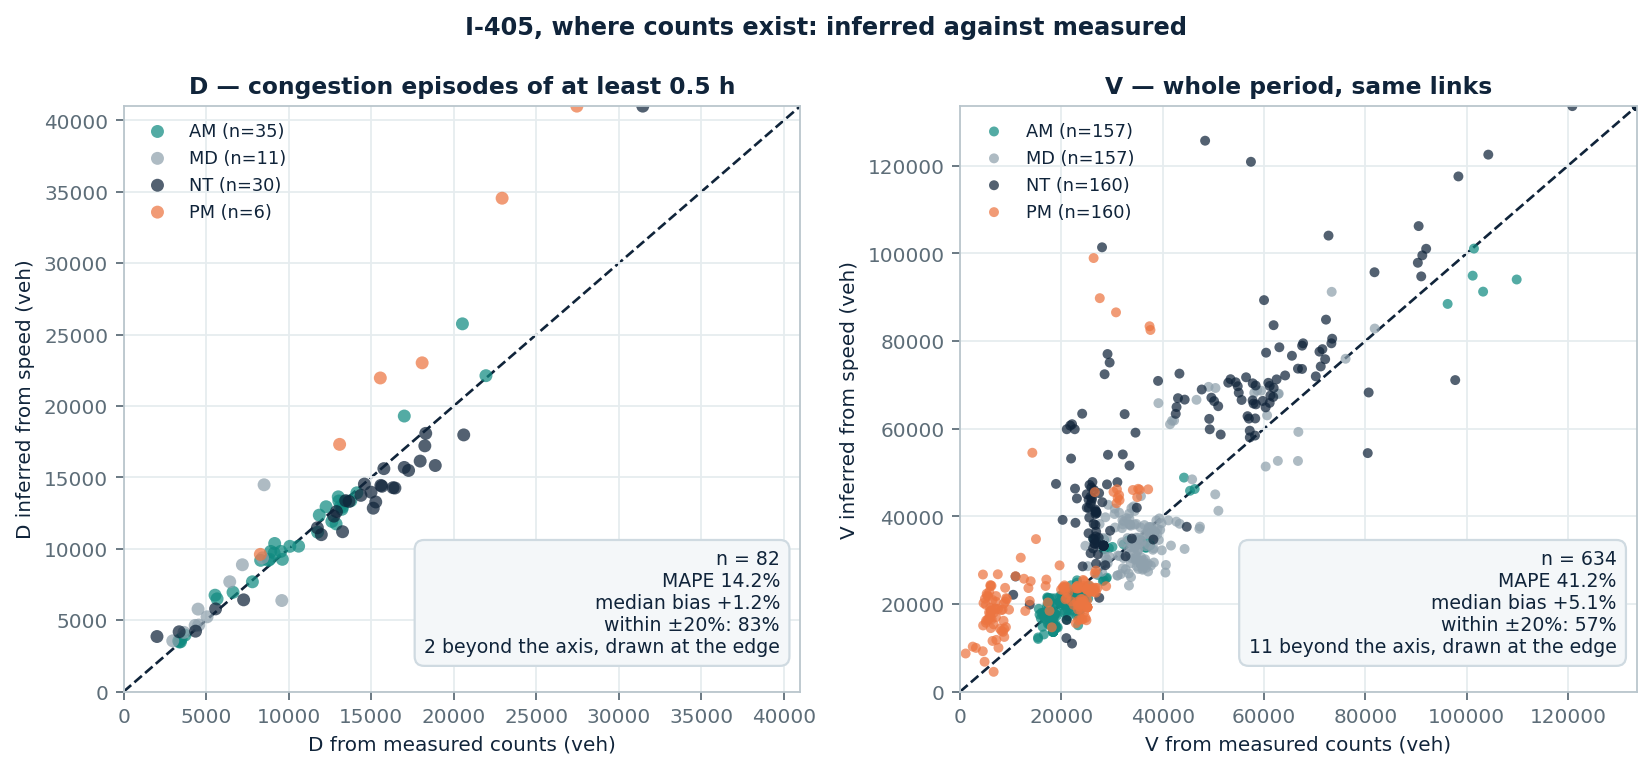
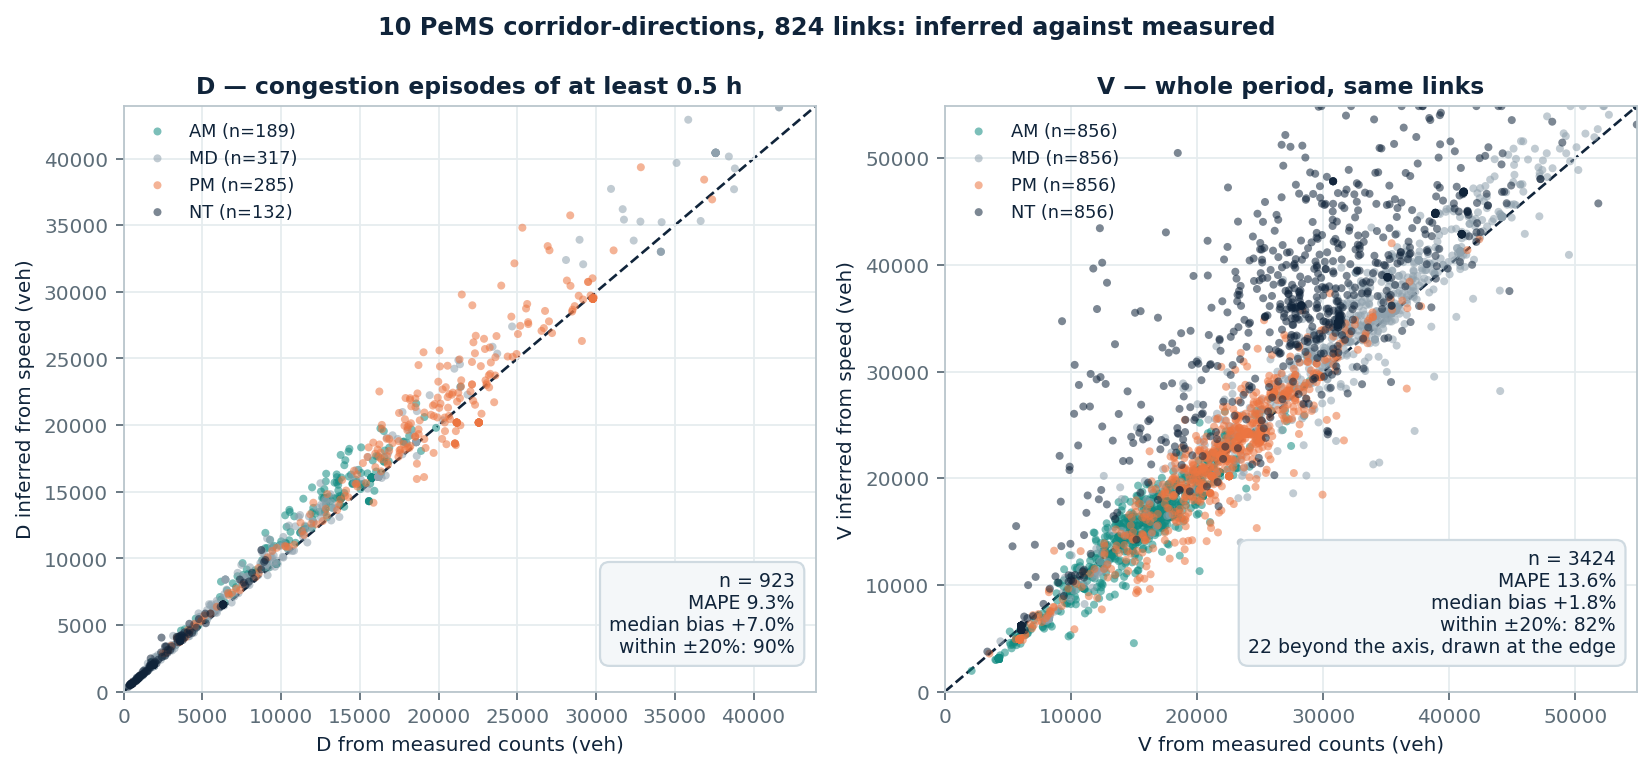
Update the note to the ten-corridor validation
The accuracy section was built on one corridor of 23 links, with 4 PM episodes
and a 45.1% PM figure for D that was a sample artefact. It now rests on both
directions of I-405, I-5, I-10 and I-210 -- 824 links, 285 PM episodes.

D holds between 8.6% and 10.9% across all four periods with 90% of cases within
20%, and V between 7.6% and 9.5% in AM, MD and PM, breaking down only at night
at 29%. The bias split moves with it: D leans consistently high and most of its
error is direction rather than scatter, while V in MD and PM is nearly all
scatter. Night is the exception in both size and sign, which is where the
free-flow problem should surface, since NT is made almost entirely of free-flow
bins.

Both the superseded numbers and the reason the old PM figure was wrong are
stated rather than quietly replaced, since the earlier ones were already sent.

diff --git a/scripts/make_d_vs_counts_figure.py b/scripts/make_d_vs_counts_figure.py
@@ -1,28 +1,13 @@
-"""D inferred from speed against D from counts, on I-405 where both exist.
+"""D and V inferred from speed against the same quantities from counts.
 
-The NVTA corridors have speed but no counts, so nothing there can test whether
-D is trustworthy. I-405 has both on the same links at the same time, which makes
-it the only place the claim can be checked.
+Reads what ``build_pems_pm_corridors.py`` scored: ten PeMS corridor-directions
+(both ways on I-405, I-5, I-10, I-210), average-weekday profiles, D restricted to
+congestion episodes of at least half an hour.
 
-The test isolates the flow estimate. Both columns sum over *the same* bins, so
-what is compared is q(t) from the fundamental diagram against q(t) from the
-detector, not two different episode detections:
-
-    D_speed  = sum of S3(v(t)) * dt   over the congested bins
-    D_counts = sum of q_measured(t) * dt   over the same bins
-
-Congested bins are contiguous runs below the cut-off lasting at least
-``MIN_EPISODE_H``, which is the rule in ``qvdf_selfdemo/config.py``. Shorter
-dips are not congestion, and the diagram misreads them badly -- it takes any low
-speed as high density however few vehicles are actually behind it.
-
-Two sources are pooled to get a usable sample, both weekday-only:
-
-  ``multiweek``  7 links x 12 weekly average-weekday profiles
-  ``daily``      18 links x 5 individual weekdays
-
-V is computed the same way over every bin in the period and drawn beside D. The
-contrast is the point: D sits on the diagonal, V sits above it.
+Also prints the split that says what *kind* of error each one carries. Comparing
+`|bias|` against MAPE separates a consistent lean from scatter, and the two
+behave differently: per bin the error is nearly all scatter, and summing a period
+cancels most of it, so what is left is mostly direction.
 """
 
 from __future__ import annotations
@@ -33,15 +18,11 @@ from pathlib import Path
 import matplotlib
 matplotlib.use("Agg")
 import matplotlib.pyplot as plt
-import numpy as np
 import pandas as pd
 
 ROOT = Path(__file__).resolve().parents[1]
 FIG = ROOT / "docs/figures"
-PERIODS = {"AM": (360, 540), "MD": (540, 900), "PM": (900, 1140), "NT": (1140, 1800)}
-CUTOFF_RATIO = 0.70
-S3_M = 4.0
-MIN_EPISODE_H = 0.5
+PERIODS = ["AM", "MD", "PM", "NT"]
 TEAL, ORANGE, INK, SLATE = "#118b81", "#ec7541", "#10243a", "#8fa1ad"
 PERIOD_COLOUR = {"AM": TEAL, "MD": SLATE, "PM": ORANGE, "NT": INK}
 
@@ -56,159 +37,62 @@ plt.rcParams.update({
 
 def parse_args() -> argparse.Namespace:
     parser = argparse.ArgumentParser()
-    parser.add_argument("--multiweek-file", type=Path,
-                        default=ROOT / "outputs/i405_multiweek_average_holdout/weekly_average_weekday_profiles_5min.csv")
-    parser.add_argument("--daily-file", type=Path,
-                        default=ROOT / "data/jinxi_i405_week_2025-06-16_to_22/raw_observed_fdqbench.csv")
-    parser.add_argument("--output-dir", type=Path, default=ROOT / "outputs/d_vs_counts_i405")
+    parser.add_argument("--scored-file", type=Path,
+                        default=ROOT / "outputs/pems_pm_corridors/d_v_vs_counts_by_link.csv")
     return parser.parse_args()
-
-
-def load_sources(multiweek_file: Path, daily_file: Path) -> pd.DataFrame:
-    """Both datasets in one tidy shape: unit, link, minute, speed, flow."""
-    frames = []
-
-    weekly = pd.read_csv(multiweek_file)
-    frames.append(pd.DataFrame({
-        "source": "multiweek", "link_id": weekly["link_id"],
-        "unit": "wk " + weekly["week_start"].astype(str),
-        "minute": weekly["minute_of_day"].astype(int),
-        "speed": weekly["average_speed_mph"], "flow": weekly["average_flow_veh_h"],
-    }))
-
-    daily = pd.read_csv(daily_file)
-    daily = daily[~daily["is_imputed"].astype(bool)]
-    stamp = pd.to_datetime(daily["timestamp_la"])
-    daily = daily.assign(minute=stamp.dt.hour * 60 + stamp.dt.minute,
-                         day=stamp.dt.date.astype(str), weekday=stamp.dt.weekday)
-    daily = daily[daily["weekday"] < 5]
-    frames.append(pd.DataFrame({
-        "source": "daily", "link_id": daily["link_id"], "unit": daily["day"],
-        "minute": daily["minute"].astype(int),
-        "speed": daily["speed_mph"], "flow": daily["flow_vehph"],
-    }))
-
-    return pd.concat(frames, ignore_index=True).dropna(subset=["speed", "flow"])
-
-
-def sustained_below(below: np.ndarray, min_bins: int) -> np.ndarray:
-    """Contiguous runs below the cut-off that last at least ``min_bins``."""
-    keep = np.zeros_like(below, dtype=bool)
-    start = None
-    for i, flag in enumerate(np.append(below, False)):
-        if flag and start is None:
-            start = i
-        elif not flag and start is not None:
-            if i - start >= min_bins:
-                keep[start:i] = True
-            start = None
-    return keep
-
-
-def s3_flow(speed: np.ndarray, free_speed: float, speed_at_capacity: float,
-            capacity: float) -> np.ndarray:
-    """k(v) = k_c[(v_f/v)^(m/2) - 1]^(1/m), then q = k*v. Single-valued in v."""
-    k_c = capacity / speed_at_capacity
-    v = np.clip(speed, 1e-6, free_speed - 1e-6)
-    return np.minimum(k_c * np.maximum((free_speed / v) ** (S3_M / 2.0) - 1.0, 0.0) ** (1.0 / S3_M) * v,
-                      capacity)
-
-
-def period_of(minute: pd.Series) -> pd.Series:
-    out = pd.Series(pd.NA, index=minute.index, dtype="object")
-    for name, (start, end) in PERIODS.items():
-        # NT wraps past midnight, so it is two spans rather than one.
-        inside = (((minute >= start) & (minute < end)) if end <= 1440
-                  else ((minute >= start) | (minute < end - 1440)))
-        out[inside] = name
-    return out
 
 
 def main() -> None:
     args = parse_args()
-    args.output_dir.mkdir(parents=True, exist_ok=True)
-    data = load_sources(args.multiweek_file, args.daily_file)
-    data["period"] = period_of(data["minute"])
-    data = data.dropna(subset=["period"])
-    step_h = float(np.median(np.diff(np.sort(data["minute"].unique())))) / 60.0
-    min_bins = max(1, int(round(MIN_EPISODE_H / step_h)))
-
-    rows = []
-    # One fundamental diagram per link and source: the two sources scale flow
-    # differently (one averages across days, the other does not).
-    for (source, link_id), link in data.groupby(["source", "link_id"]):
-        capacity = float(link["flow"].quantile(0.995))
-        speed_at_capacity = float(link.loc[link["flow"].idxmax(), "speed"])
-        free_speed = float(link["speed"].quantile(0.95))
-        if not free_speed > speed_at_capacity > 0 or capacity <= 0:
-            continue
-        cutoff = CUTOFF_RATIO * free_speed
-        link = link.assign(q_speed=s3_flow(link["speed"].to_numpy(float), free_speed,
-                                           speed_at_capacity, capacity))
-        for (unit, period), g in link.groupby(["unit", "period"]):
-            g = g.sort_values("minute")
-            if len(g) < 8:
-                continue
-            below = sustained_below((g["speed"] < cutoff).to_numpy(), min_bins)
-            rows.append({
-                "source": source, "link_id": link_id, "unit": unit, "period": period,
-                "bins": int(len(g)), "bins_below_cutoff": int(below.sum()),
-                "cutoff_mph": cutoff, "capacity_vph": capacity,
-                "D_counts": float((g["flow"].to_numpy()[below] * step_h).sum()),
-                "D_speed": float((g["q_speed"].to_numpy()[below] * step_h).sum()),
-                "V_counts": float((g["flow"] * step_h).sum()),
-                "V_speed": float((g["q_speed"] * step_h).sum()),
-            })
-
-    frame = pd.DataFrame(rows)
-    frame = frame[frame["V_counts"] > 0].copy()
-    frame["V_err"] = (frame["V_speed"] - frame["V_counts"]) / frame["V_counts"] * 100
-    congested = frame[frame["bins_below_cutoff"] > 0].copy()
-    congested["D_err"] = (congested["D_speed"] - congested["D_counts"]) / congested["D_counts"] * 100
-    frame.to_csv(args.output_dir / "d_vs_counts_i405.csv", index=False)
+    frame = pd.read_csv(args.scored_file)
+    congested = frame[frame["bins_below_cutoff"] > 0].dropna(subset=["D_err"])
 
     fig, (left, right) = plt.subplots(1, 2, figsize=(10.4, 4.8))
-    for ax, data_, xcol, ycol, err, title, size in [
-        (left, congested, "D_counts", "D_speed", "D_err",
-         f"D — congestion episodes of at least {MIN_EPISODE_H:g} h", 34),
-        (right, frame, "V_counts", "V_speed", "V_err", "V — whole period, same links", 20),
+    for ax, data, xcol, ycol, err, title in [
+        (left, congested, "D_counts", "D_speed", "D_err", "D — congestion episodes of at least 0.5 h"),
+        (right, frame, "V_counts", "V_speed", "V_err", "V — whole period, same links"),
     ]:
-        # Scale to the bulk, not to the single worst point, and say how many
-        # fall outside rather than quietly dropping them.
-        top = max(data_[xcol].quantile(.98), data_[ycol].quantile(.98)) * 1.10
-        outside = ((data_[xcol] > top) | (data_[ycol] > top)).sum()
+        top = max(data[xcol].quantile(.98), data[ycol].quantile(.98)) * 1.10
+        outside = int(((data[xcol] > top) | (data[ycol] > top)).sum())
         ax.plot([0, top], [0, top], color=INK, lw=1.2, ls="--", zorder=1)
-        for period, g in data_.groupby("period"):
-            ax.scatter(g[xcol].clip(upper=top), g[ycol].clip(upper=top), s=size,
-                       color=PERIOD_COLOUR.get(period, SLATE),
-                       alpha=.72, edgecolors="none", zorder=2, label=f"{period} (n={len(g)})")
+        for period in PERIODS:
+            g = data[data["period"] == period]
+            if g.empty:
+                continue
+            ax.scatter(g[xcol].clip(upper=top), g[ycol].clip(upper=top), s=13,
+                       color=PERIOD_COLOUR[period], alpha=.55, edgecolors="none", zorder=2,
+                       label=f"{period} (n={len(g)})")
         ax.set_xlim(0, top); ax.set_ylim(0, top)
         ax.set_xlabel(f"{xcol[0]} from measured counts (veh)")
         ax.set_ylabel(f"{xcol[0]} inferred from speed (veh)")
         ax.set_title(title)
         ax.legend(frameon=False, fontsize=8, loc="upper left")
         ax.text(.97, .06,
-                f"n = {len(data_)}\nMAPE {data_[err].abs().mean():.1f}%\n"
-                f"median bias {data_[err].median():+.1f}%\n"
-                f"within ±20%: {(data_[err].abs() <= 20).mean()*100:.0f}%"
+                f"n = {len(data)}\nMAPE {data[err].abs().mean():.1f}%\n"
+                f"median bias {data[err].median():+.1f}%\n"
+                f"within ±20%: {(data[err].abs() <= 20).mean()*100:.0f}%"
                 + (f"\n{outside} beyond the axis, drawn at the edge" if outside else ""),
                 transform=ax.transAxes, ha="right", va="bottom", fontsize=8.5,
                 bbox=dict(boxstyle="round,pad=0.5", fc="#f4f7f9", ec="#cfdae1"))
 
-    fig.suptitle("I-405, where counts exist: inferred against measured", fontweight="bold", y=0.99)
+    fig.suptitle(f"{frame['corridor'].nunique()} PeMS corridor-directions, "
+                 f"{frame['link_id'].nunique()} links: inferred against measured",
+                 fontweight="bold", y=0.99)
     fig.tight_layout()
     fig.savefig(FIG / "d_vs_counts.png", bbox_inches="tight")
     plt.close(fig)
 
-    print(f"{frame['link_id'].nunique()} links, {len(frame)} link-period observations "
-          f"({len(congested)} with a congestion episode of at least {MIN_EPISODE_H:g} h)")
-    print(frame.groupby("source").agg(units=("unit", "nunique"), links=("link_id", "nunique"),
-                                      rows=("unit", "size")).to_string())
-    print()
-    for label, d, err in [("D (congested)", congested, "D_err"), ("V (whole period)", frame, "V_err")]:
-        print(f"{label:<18} n={len(d):>4}  MAPE {d[err].abs().mean():>6.1f}%  "
-              f"median bias {d[err].median():>+6.1f}%  within +-20%: {(d[err].abs() <= 20).mean()*100:>5.1f}%")
-    print(f"\nWrote {args.output_dir} and docs/figures/d_vs_counts.png")
+    print(f"{frame['corridor'].nunique()} corridor-directions, {frame['link_id'].nunique()} links\n")
+    print(f"{'':<16} {'n':>5} {'MAPE':>8} {'bias':>8} {'|bias|/MAPE':>13}")
+    for label, data, err in [("D", congested, "D_err"), ("V", frame, "V_err")]:
+        for period in PERIODS:
+            g = data[data["period"] == period][err].dropna()
+            if g.empty:
+                continue
+            mape = g.abs().mean()
+            print(f"{label + ' ' + period:<16} {len(g):>5} {mape:>7.1f}% {g.median():>+7.1f}% "
+                  f"{abs(g.median())/mape:>13.2f}")
+    print(f"\nWrote {FIG / 'd_vs_counts.png'}")
 
 
 if __name__ == "__main__":

diff --git a/docs/NVTA_D_AND_V.md b/docs/NVTA_D_AND_V.md
@@ -78,91 +78,58 @@ of how many others are on the road, so one speed is consistent with a wide band
 of flows: 65 mph at 03:00 and 65 mph at 06:30 are completely different traffic.
 The diagram returns one answer anyway.
 
-Scored against measured counts on I-405 — 7 links × 12 weekly average-weekday
-profiles, S3 with the standard exponent `m = 4`. **D and V are delivered per
-period, so those are the rows that describe the deliverable**; the per-bin rows
-below them are diagnostic, and show where the error lives.
+Scored against measured counts on **ten PeMS corridor-directions** — both ways on
+I-405, I-5, I-10 and I-210, 824 links, average-weekday profiles over roughly nine
+months of weekdays, `is_observed` only so nothing imputed enters a comparison
+against measurement. S3 with the standard exponent `m = 4`.
 
 | Period | **D** n | **D** MAPE | **D** bias | **V** n | **V** MAPE | **V** bias |
 |---|---:|---:|---:|---:|---:|---:|
-| **AM** | 26 | **6.1%** | +0.4% | 82 | **16.1%** | −14.7% |
-| **MD** | 17 | **14.5%** | +9.2% | 82 | **16.8%** | −11.9% |
-| **PM** | 4 | 45.1% | +42.9% | 82 | **18.6%** | −12.7% |
-| **NT** | 1 | — | — | 82 | **40.9%** | +36.1% |
-
-One observation is one link-week-period. Seven links across twelve weeks gives 84
-link-weeks, less two where the maximum-flow bin sat above the 95th-percentile
-speed and the diagram could not be fitted, so **V is scored on all 82 in every
-period**. **D is scored only on those containing a congestion episode of at least
-half an hour** — 26 of 82 in AM, 4 in PM — which is why its sample varies. An
-observation with two episodes still counts once; D sums across both.
-
-Errors are per observation, `(inferred − measured) / measured`. MAPE is the mean
-of the absolute values; **bias is the median**, taken rather than the mean so a
-single 200% case cannot set it.
-
-For reference, the same data per 5-minute bin: 20.7% MAPE on congested bins,
-84.6% on free-flow bins. The gap to the period rows is the bin errors
-cancelling — they are scatter rather than a consistent lean, so summing 36–72 of
-them leaves far less.
-
-**Two things this table says that a pooled number would hide.**
-
-**V is steady at 16–19% through AM, MD and PM and only breaks down at night**
-(40.9%). More usefully, comparing `|bias|` against MAPE says what kind of error
-it is:
-
-| | MAPE | bias | `\|bias\|` ÷ MAPE |
-|---|---:|---:|---:|
-| Per 5-minute bin | 82.2% | −3.2% | **0.04** |
-| Per period, AM | 16.1% | −14.7% | **0.91** |
-| Per period, MD | 16.8% | −11.9% | 0.71 |
-| Per period, PM | 18.6% | −12.7% | 0.68 |
-| Per period, NT | 40.9% | +36.1% | 0.88 |
-
-Per bin the error is almost pure scatter — the bias accounts for 4% of it. That
-scatter is what cancels on summing, taking 82% down to 16%. **What survives at
-period level is not scatter but a systematic lean**: 68–91% of the remaining
-error is direction, running about 13% low through the day and 36% high at night.
-
-That is better news than a 16% error band, because a consistent lean is
-correctable in a way that scatter is not. It is also why the pooled bias of
-−6.4% was meaningless: it averaged a daytime lean against an opposite night one.
-I have not applied a correction here, because it would be calibrated on I-405 and
-transferring it to NVTA is exactly the kind of assumption this note is trying to
-avoid — but if you want V adjusted, this is the number to adjust it by.
-
-For the same reason I would not call V a bound. It leans low against counts, yet
-reads high against the DTA assignment (1.09–1.15× where congestion is heaviest,
-1.3–1.9× where lighter). Neither series is ground truth, so that gap is an open
-question rather than a correction.
-
-**D is well tested in AM and barely tested in PM.** 26 AM cases at 6.1% is a
-solid result. But these seven I-405 links are 97% free-flow bins in PM, so only
-4 congestion episodes exist to score there and one at night — too few to conclude
-anything, and the 45.1% should be read as an absence of evidence rather than
-evidence of error. **That is a real gap, because PM is where the NVTA numbers are
-largest** (I-66 EB is congested on 31 of 36 links in PM). Confirming D in a PM
-peak needs a corridor that actually has one and has counts.
-
-### D, checked the same way
+| **AM** | 189 | **10.0%** | +7.4% | 856 | **9.5%** | −4.9% |
+| **MD** | 317 | **8.6%** | +7.3% | 856 | **7.6%** | +1.7% |
+| **PM** | 285 | **8.8%** | +5.6% | 856 | **8.2%** | +1.0% |
+| **NT** | 132 | **10.9%** | +8.4% | 856 | **29.0%** | +16.4% |
 
 ![D and V against measured counts](figures/d_vs_counts.png)
 
-Congestion episodes must last at least half an hour — the `MIN_EPISODE_H` rule
-in `config.py`, which matters because a brief dip is not congestion and the
-diagram reads any low speed as high density however few vehicles are behind it.
+One observation is one link-period. **V is scored on every link-period; D only on
+those holding a congestion episode of at least half an hour** — the
+`MIN_EPISODE_H` rule in `config.py`, which matters because a brief dip is not
+congestion and the diagram reads any low speed as high density however few
+vehicles are behind it. That is why D's sample varies and V's does not. Errors
+are `(inferred − measured) / measured` per observation; MAPE is the mean of the
+absolute values, **bias is the median**, taken rather than the mean so a single
+extreme case cannot set it.
 
-Pooling the weekly profiles above with 5 individual weekdays widens the sample to
-**82 episodes across 23 links**, where D lands at **14.2% MAPE, +1.2% median
-bias, 83% of cases within ±20%** — consistent with the 16.6% in the table, which
-is the 7-link weekly subset alone.
+**D holds between 8.6% and 10.9% across all four periods**, 90% of cases within
+±20%. It leans consistently high, by 5.6–8.4%, and `|bias|` is 63–84% of MAPE —
+so most of D's error is a correctable direction rather than scatter.
 
-![One speed, how many flows](figures/flow_information.png)
+**V is 7.6–9.5% through AM, MD and PM and breaks down only at night** (29.0%,
++16.4%). In MD and PM its bias is 1–2% and `|bias|` is only 12–23% of MAPE, so
+there the error really is scatter. Night is the exception in both size and
+direction, which is where the free-flow problem should show: **40–94% of V comes
+from free-flow bins** depending on corridor and period, and NT is the period made
+almost entirely of them.
 
-*Left: measured I-405 detector flow. At 65 mph the road carries anywhere from 4%
-to 100% of that link's daily peak. Right: the NVTA series, which traces a single
-curve because it is the diagram evaluated at the observed speed.*
+I would not call V a bound. It is close to unbiased against counts in daylight
+and simply imprecise. It does read high against the DTA assignment — 1.09–1.15×
+where congestion is heaviest, 1.3–1.9× where lighter — but neither series is
+ground truth there, so that gap is an open question rather than a correction.
+
+**A caveat on all of the above.** These are average-weekday profiles, so both the
+speed and the counts are smoothed across many days. That is the same construction
+the NVTA deliverable uses, which makes it the right comparison — but it describes
+accuracy on an average weekday, not on any individual day. An earlier version of
+this note reported 14.2% for D and 16–19% for V from a single corridor of 23
+links; the numbers above supersede those, and the difference is mostly sample
+size and cleanliness rather than method.
+
+**On the earlier PM gap.** A previous version of this table had only 4 PM
+episodes and a 45.1% PM error for D. The cause was direction, not method: every
+link then available was I-405 southbound, the local AM commute, whose PM median
+speed is 66–72 mph. There was no PM congestion there to score. With both
+directions of four corridors, PM has 285 episodes and lands at 8.8%.
 
 ## The question
 
